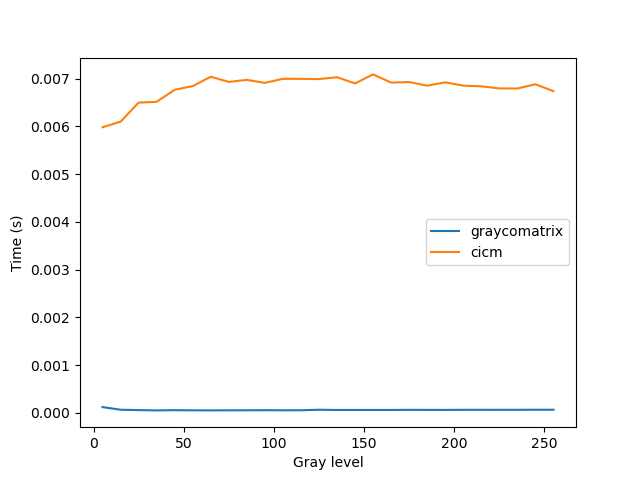
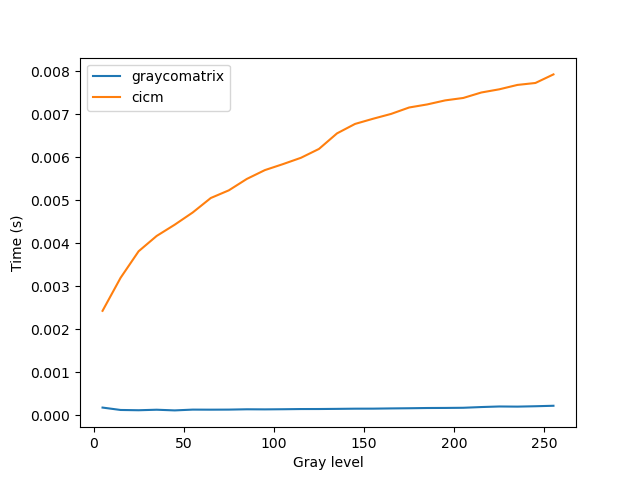
Update README and performance graphs

diff --git a/README.md b/README.md
@@ -1,12 +1,15 @@
 # CICM
 Implementation of a cross-image co-occurrence matrix (CICM) in python, which computes a version of the common gray-level co-ocurrence matrix (GLCM) between different images, or channels of the same image.
 
-Although python's package scikit-image implements the calculation of the GLCM matrix through method [graycomatrix](https://scikit-image.org/docs/stable/api/skimage.feature.html#skimage.feature.graycomatrix) in the [feature module](https://scikit-image.org/docs/stable/api/skimage.feature.html). However, since this method only accepts one image as parameter, it is not possible to compare pixel co-occurrence between pixels from different images. 
+Python's package scikit-image implements the calculation of the GLCM matrix through method [graycomatrix](https://scikit-image.org/docs/stable/api/skimage.feature.html#skimage.feature.graycomatrix) in the [feature module](https://scikit-image.org/docs/stable/api/skimage.feature.html). However, since this method only accepts one image as parameter, it is not possible to compare pixel co-occurrence between pixels from different images. 
 
-This repository provides a similar functionality as that of method graycomatrix, with the addition of a second image argument to compare pixels with. Run tests show computation times within a similar order as graycomatrix, and just like it, the computation times do not grow exponentially, but linearly, with the size of the image and the number of gray level values.
+This repository provides a similar functionality as that of method graycomatrix, with the addition of a second image argument to compare pixels with. Run tests show average computation times in the order of O(n^5) as a function of the image size (constant gray level), and O(log(N)) as a function of the number of gray levels (for constant image size), which is fast enough for common image sizes.
 
-![Graph representing how computation times change, as a function of the number of gray levels, for method cicm compared with scikit-image's graycomatrix](Figure_1.png "Comparison of computation times as a function of the number of gray levels (the image size was fixed at 128 pixels)")
+<div align="center">
+    <img src="Figure_1.png" width="45%" alt="Graph representing how computation times change, as a function of the number of gray levels, for method cicm compared with scikit-image's graycomatrix"> 
+    <img src="Figure_2.png" width="45%" alt="Graph representing how computation times change, as a function of the image size, for method cicm compared with scikit-image's graycomatrix">
+    <p><i>Performance graphs for method cicm compared with scikit-image's graycomatrix. Computation times as a function of the number of gray levels (left), and image size (right).</i></p>
+</div>
 
-![Graph representing how computation times change, as a function of the image size, for method cicm compared with scikit-image's graycomatrix](Figure_2.png "Comparison of computation times as a function of the image size (number of gray levels was fixed at 256)")
 
 
